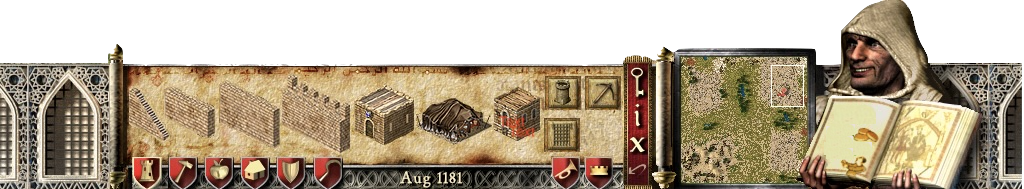
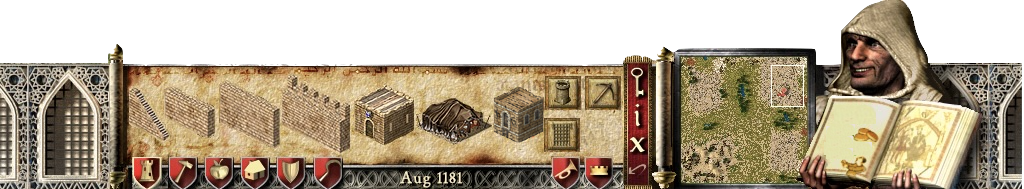
continue bottom menu

Changed region(s): [[0.4688, 0.4497, 0.5312, 0.7672]]

diff --git a/src/main/java/View/GameGraphicController.java b/src/main/java/View/GameGraphicController.java
@@ -9,6 +9,8 @@ import javafx.scene.layout.AnchorPane;
 import javafx.scene.paint.Color;
 import javafx.stage.Stage;
 
+import java.io.IOException;
+import java.net.MalformedURLException;
 import java.net.URL;
 
 
@@ -45,5 +47,65 @@ public class GameGraphicController {
         }
         catch (Exception e){}
         throw new RuntimeException("heyo");
+    }
+
+    public void openConstructorBuildingsMenu(MouseEvent mouseEvent) throws IOException {
+        Game.mainPane.getChildren().remove(Game.bottomPane);
+        AnchorPane anchorPane = FXMLLoader.load(
+                new URL(ShopMenu.class.getResource("/fxml/ConstructorBottomMenu.fxml").toExternalForm()));
+        anchorPane.setLayoutX(Game.leftX);
+        anchorPane.setLayoutY(Game.screenHeight - 150);
+        Game.bottomPane = anchorPane;
+        Game.mainPane.getChildren().add(Game.bottomPane);
+    }
+
+    public void openFoodBuildingsMenu(MouseEvent mouseEvent) throws IOException {
+        Game.mainPane.getChildren().remove(Game.bottomPane);
+        AnchorPane anchorPane = FXMLLoader.load(
+                new URL(ShopMenu.class.getResource("/fxml/FoodBottomMenu.fxml").toExternalForm()));
+        anchorPane.setLayoutX(Game.leftX);
+        anchorPane.setLayoutY(Game.screenHeight - 150);
+        Game.bottomPane = anchorPane;
+        Game.mainPane.getChildren().add(Game.bottomPane);
+    }
+
+    public void openVillageBuildingsMenu(MouseEvent mouseEvent) throws IOException {
+        Game.mainPane.getChildren().remove(Game.bottomPane);
+        AnchorPane anchorPane = FXMLLoader.load(
+                new URL(ShopMenu.class.getResource("/fxml/VillageBottomMenu.fxml").toExternalForm()));
+        anchorPane.setLayoutX(Game.leftX);
+        anchorPane.setLayoutY(Game.screenHeight - 150);
+        Game.bottomPane = anchorPane;
+        Game.mainPane.getChildren().add(Game.bottomPane);
+    }
+
+    public void openKitchenBuildingsMenu(MouseEvent mouseEvent) throws IOException {
+        Game.mainPane.getChildren().remove(Game.bottomPane);
+        AnchorPane anchorPane = FXMLLoader.load(
+                new URL(ShopMenu.class.getResource("/fxml/KitchenBottomMenu.fxml").toExternalForm()));
+        anchorPane.setLayoutX(Game.leftX);
+        anchorPane.setLayoutY(Game.screenHeight - 150);
+        Game.bottomPane = anchorPane;
+        Game.mainPane.getChildren().add(Game.bottomPane);
+    }
+
+    public void openDefenceBuildingsMenu(MouseEvent mouseEvent) throws IOException {
+        Game.mainPane.getChildren().remove(Game.bottomPane);
+        AnchorPane anchorPane = FXMLLoader.load(
+                new URL(ShopMenu.class.getResource("/fxml/DefenceBottomMenu.fxml").toExternalForm()));
+        anchorPane.setLayoutX(Game.leftX);
+        anchorPane.setLayoutY(Game.screenHeight - 150);
+        Game.bottomPane = anchorPane;
+        Game.mainPane.getChildren().add(Game.bottomPane);
+    }
+
+    public void openWallBuildingsMenu(MouseEvent mouseEvent) throws IOException {
+        Game.mainPane.getChildren().remove(Game.bottomPane);
+        AnchorPane anchorPane = FXMLLoader.load(
+                new URL(ShopMenu.class.getResource("/fxml/BottomMenu.fxml").toExternalForm()));
+        anchorPane.setLayoutX(Game.leftX);
+        anchorPane.setLayoutY(Game.screenHeight - 150);
+        Game.bottomPane = anchorPane;
+        Game.mainPane.getChildren().add(Game.bottomPane);
     }
 }

diff --git a/src/main/java/View/Game.java b/src/main/java/View/Game.java
@@ -36,18 +36,19 @@ public class Game extends Application{
     private static final HashMap<String, Image> buildings;
     private static int blockPixel;
     private static final double screenWidth;
-    private static final double screenHeight;
-    private static final int leftX;
+    public static final double screenHeight;
+    public static final int leftX;
     private static int blockWidth;
     private static int blockHeight;
     private static final Rectangle blackRec;
     private static final Rectangle selectSq;
+    public static AnchorPane bottomPane;
 
     private Map map;
     private Square[][] squares;
     private Stage stage;
     private Pane pane;
-    private Pane mainPane; // this pane contains all other panes such as pane
+    public static Pane mainPane; // this pane contains all other panes such as pane
     private Scene scene;
     private int squareI;
     private int squareJ;
@@ -261,7 +262,7 @@ public class Game extends Application{
     }
 
     private void drawBottom() throws IOException {
-        AnchorPane bottomPane = FXMLLoader.load(
+        bottomPane = FXMLLoader.load(
                 new URL(Game.class.getResource("/fxml/BottomMenu.fxml").toExternalForm()));
         bottomPane.setLayoutX(leftX);
         bottomPane.setLayoutY(screenHeight - 150);
